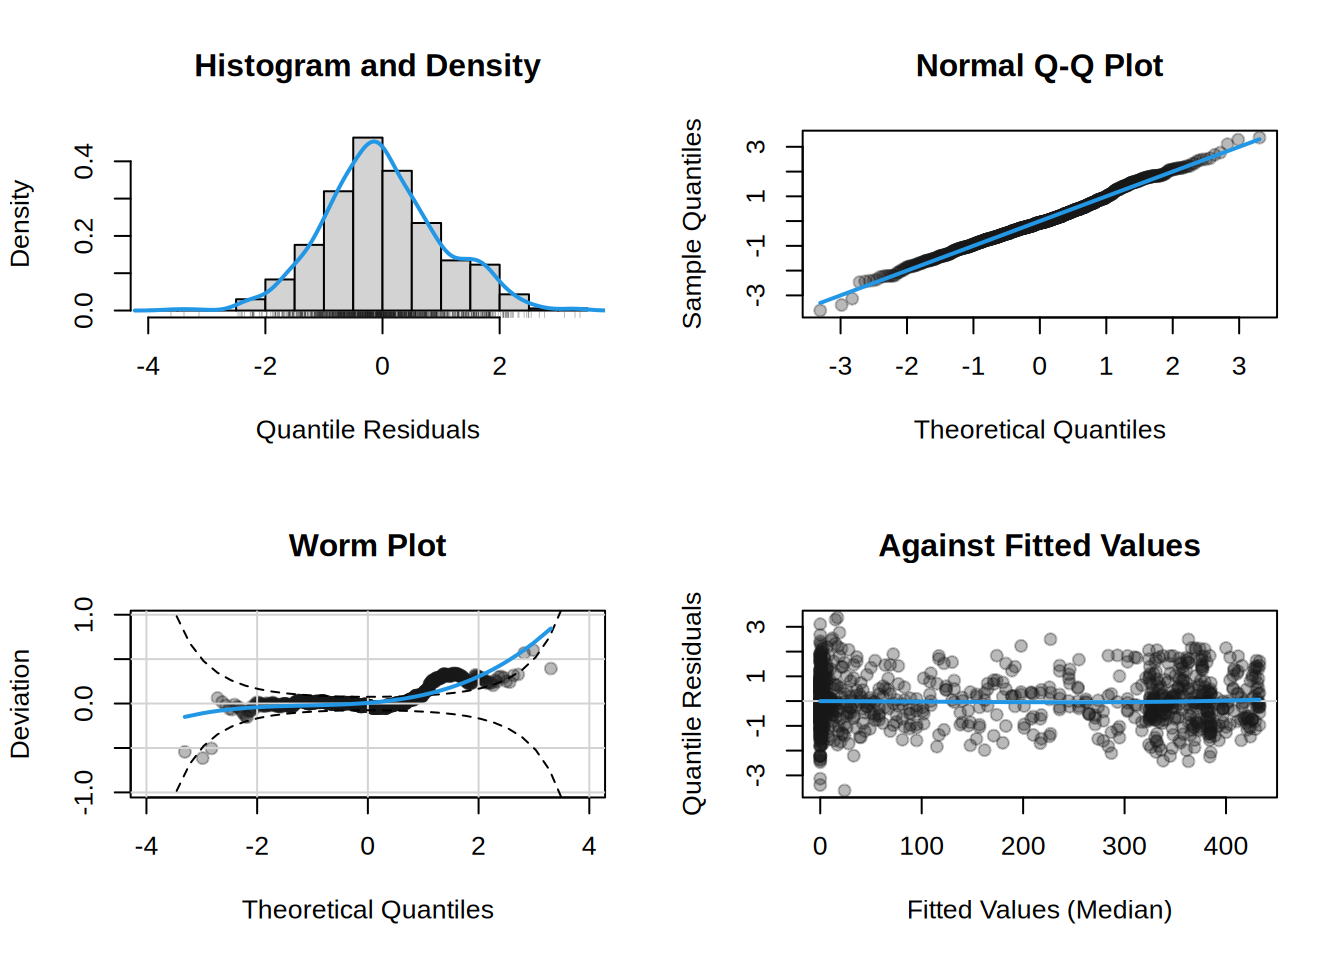
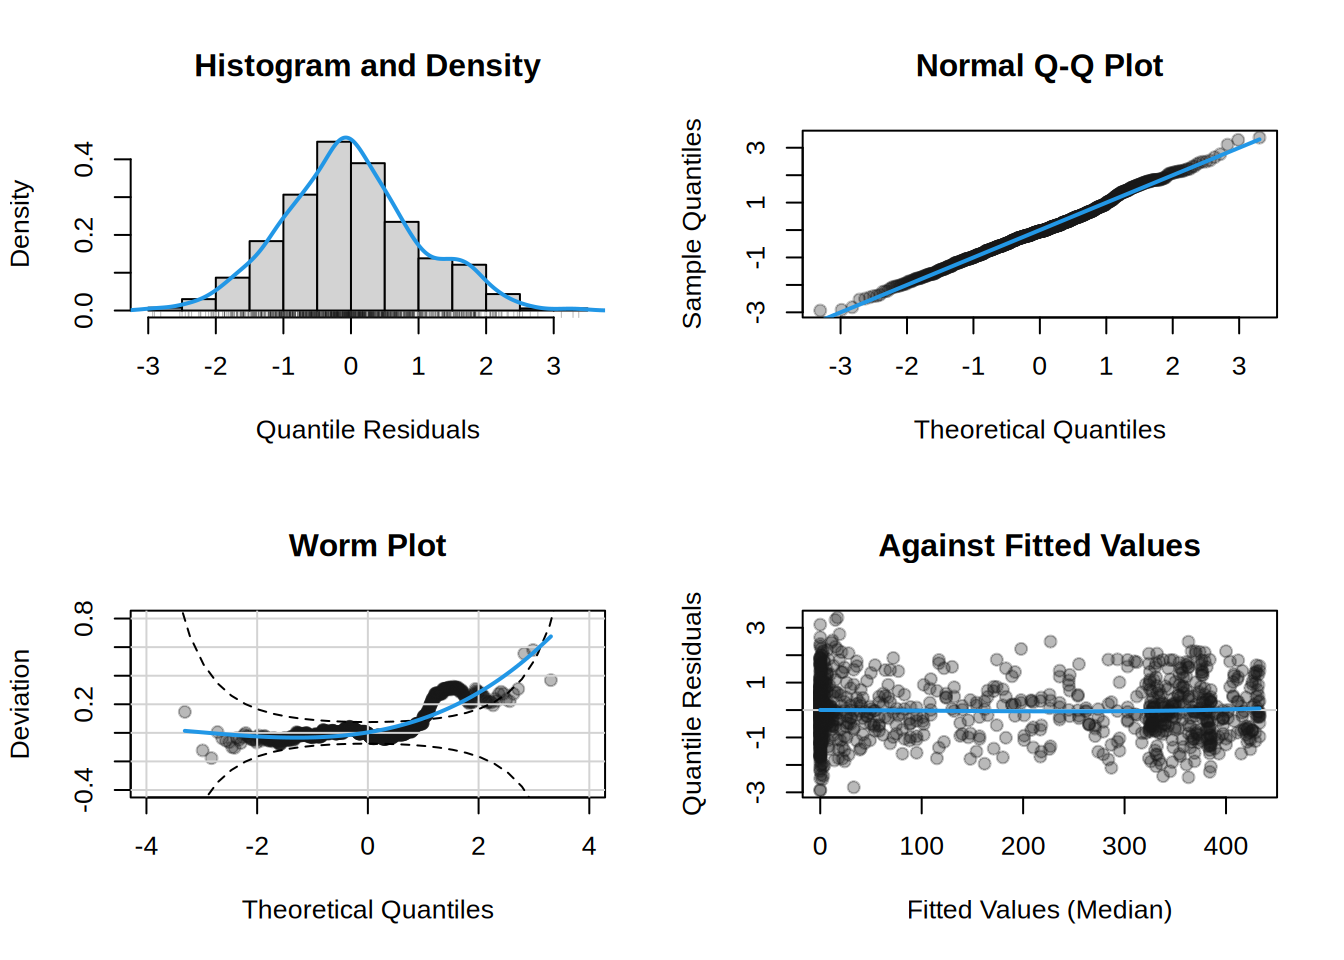
Deploying to gh-pages from @ gamlss-dev/gamlss2@0a1e21cb9a9d324cec5e3a9e460b72342bfc710a 🚀

diff --git a/man/elm.html b/man/elm.html
@@ -288,7 +288,7 @@ Further control arguments can be passed: <code>criterion = “bic”</code> (def
 <span id="cb1-12"><a href="#cb1-12" aria-hidden="true" tabindex="-1"></a><span class="fu">set.seed</span>(<span class="dv">1328</span>)</span>
 <span id="cb1-13"><a href="#cb1-13" aria-hidden="true" tabindex="-1"></a></span>
 <span id="cb1-14"><a href="#cb1-14" aria-hidden="true" tabindex="-1"></a><span class="do">## formula for all 4 parameters</span></span>
-<span id="cb1-15"><a href="#cb1-15" aria-hidden="true" tabindex="-1"></a>f <span class="ot">&lt;-</span> fev1 <span class="sc">~</span> <span class="fu">elm</span>(age) <span class="sc">|</span> . <span class="sc">|</span> . <span class="sc">|</span> .</span>
+<span id="cb1-15"><a href="#cb1-15" aria-hidden="true" tabindex="-1"></a>f <span class="ot">&lt;-</span> fev1 <span class="sc">~</span> <span class="fu">elm</span>(age,<span class="at">k=</span><span class="dv">100</span>,<span class="at">a=</span><span class="st">"tanh"</span>) <span class="sc">|</span> . <span class="sc">|</span> . <span class="sc">|</span> .</span>
 <span id="cb1-16"><a href="#cb1-16" aria-hidden="true" tabindex="-1"></a></span>
 <span id="cb1-17"><a href="#cb1-17" aria-hidden="true" tabindex="-1"></a><span class="do">## estimate model</span></span>
 <span id="cb1-18"><a href="#cb1-18" aria-hidden="true" tabindex="-1"></a>m <span class="ot">&lt;-</span> <span class="fu">gamlss2</span>(f, <span class="at">data =</span> d, <span class="at">family =</span> BCT)</span>
@@ -310,7 +310,7 @@ Further control arguments can be passed: <code>criterion = “bic”</code> (def
 <span id="cb1-34"><a href="#cb1-34" aria-hidden="true" tabindex="-1"></a></span>
 <span id="cb1-35"><a href="#cb1-35" aria-hidden="true" tabindex="-1"></a><span class="do">## main effects and interactions</span></span>
 <span id="cb1-36"><a href="#cb1-36" aria-hidden="true" tabindex="-1"></a>f <span class="ot">&lt;-</span> fev1 <span class="sc">~</span> <span class="fu">s</span>(age) <span class="sc">+</span> <span class="fu">s</span>(height) <span class="sc">+</span> <span class="fu">s</span>(weight) <span class="sc">+</span></span>
-<span id="cb1-37"><a href="#cb1-37" aria-hidden="true" tabindex="-1"></a>  <span class="fu">elm</span>(<span class="sc">~</span> age <span class="sc">+</span> height <span class="sc">+</span> weight, <span class="at">k =</span> <span class="dv">200</span>) <span class="sc">|</span> . <span class="sc">|</span> . <span class="sc">|</span> .</span>
+<span id="cb1-37"><a href="#cb1-37" aria-hidden="true" tabindex="-1"></a>  <span class="fu">elm</span>(<span class="sc">~</span>age<span class="sc">+</span>height<span class="sc">+</span>weight,<span class="at">k=</span><span class="dv">200</span>) <span class="sc">|</span> . <span class="sc">|</span> . <span class="sc">|</span> .</span>
 <span id="cb1-38"><a href="#cb1-38" aria-hidden="true" tabindex="-1"></a></span>
 <span id="cb1-39"><a href="#cb1-39" aria-hidden="true" tabindex="-1"></a>m <span class="ot">&lt;-</span> <span class="fu">gamlss2</span>(f, <span class="at">data =</span> d, <span class="at">family =</span> BCT)</span>
 <span id="cb1-40"><a href="#cb1-40" aria-hidden="true" tabindex="-1"></a></span>

diff --git a/man/prodist.gamlss2.html b/man/prodist.gamlss2.html
@@ -626,10 +626,10 @@ GAMLSS-RS iteration  4: Global Deviance = 406.1491 eps = 0.000007     </code></p
 <div class="code-copy-outer-scaffold"><div class="sourceCode cell-code" id="cb16"><pre class="sourceCode r code-with-copy"><code class="sourceCode r"><span id="cb16-1"><a href="#cb16-1" aria-hidden="true" tabindex="-1"></a><span class="do">## simulate random numbers</span></span>
 <span id="cb16-2"><a href="#cb16-2" aria-hidden="true" tabindex="-1"></a><span class="fu">random</span>(d, <span class="dv">5</span>)</span></code></pre></div><button title="Copy to Clipboard" class="code-copy-button"><i class="bi"></i></button></div>
 <div class="cell-output cell-output-stdout">
-<pre><code>        r_1       r_2      r_3       r_4       r_5
-1  23.41847  21.46334 34.19798  32.60105  7.948767
-2  90.68691  70.72363 48.15345  98.15598 59.650073
-3 112.52103 127.30262 65.82153 147.71655 83.632947</code></pre>
+<pre><code>       r_1      r_2      r_3       r_4       r_5
+1 34.53986 36.82385  19.3761  15.94510  31.79143
+2 67.97283 37.33232  58.5827  24.22924  55.28949
+3 98.41587 87.14137 112.3816 177.15782 130.92465</code></pre>
 </div>
 <div class="code-copy-outer-scaffold"><div class="sourceCode cell-code" id="cb18"><pre class="sourceCode r code-with-copy"><code class="sourceCode r"><span id="cb18-1"><a href="#cb18-1" aria-hidden="true" tabindex="-1"></a><span class="do">## density and distribution</span></span>
 <span id="cb18-2"><a href="#cb18-2" aria-hidden="true" tabindex="-1"></a><span class="fu">pdf</span>(d, <span class="dv">50</span> <span class="sc">*</span> <span class="sc">-</span><span class="dv">2</span><span class="sc">:</span><span class="dv">2</span>)</span></code></pre></div><button title="Copy to Clipboard" class="code-copy-button"><i class="bi"></i></button></div>

diff --git a/man/gamlss2.html b/man/gamlss2.html
@@ -689,7 +689,7 @@ edf  4.5505     2.5450  1.0015   1.0004
 *--------
 n = 610 df =  13.1 res.df =  596.9
 Deviance = 4770.1544 Null Dev. Red. = 33.39%
-AIC = 4796.3494 elapsed =  0.86sec</code></pre>
+AIC = 4796.3494 elapsed =  0.83sec</code></pre>
 </div>
 <div class="code-copy-outer-scaffold"><div class="sourceCode cell-code" id="cb5"><pre class="sourceCode r code-with-copy"><code class="sourceCode r"><span id="cb5-1"><a href="#cb5-1" aria-hidden="true" tabindex="-1"></a><span class="do">## plot estimated effects</span></span>
 <span id="cb5-2"><a href="#cb5-2" aria-hidden="true" tabindex="-1"></a><span class="fu">plot</span>(b, <span class="at">which =</span> <span class="st">"effects"</span>)</span></code></pre></div><button title="Copy to Clipboard" class="code-copy-button"><i class="bi"></i></button></div>
